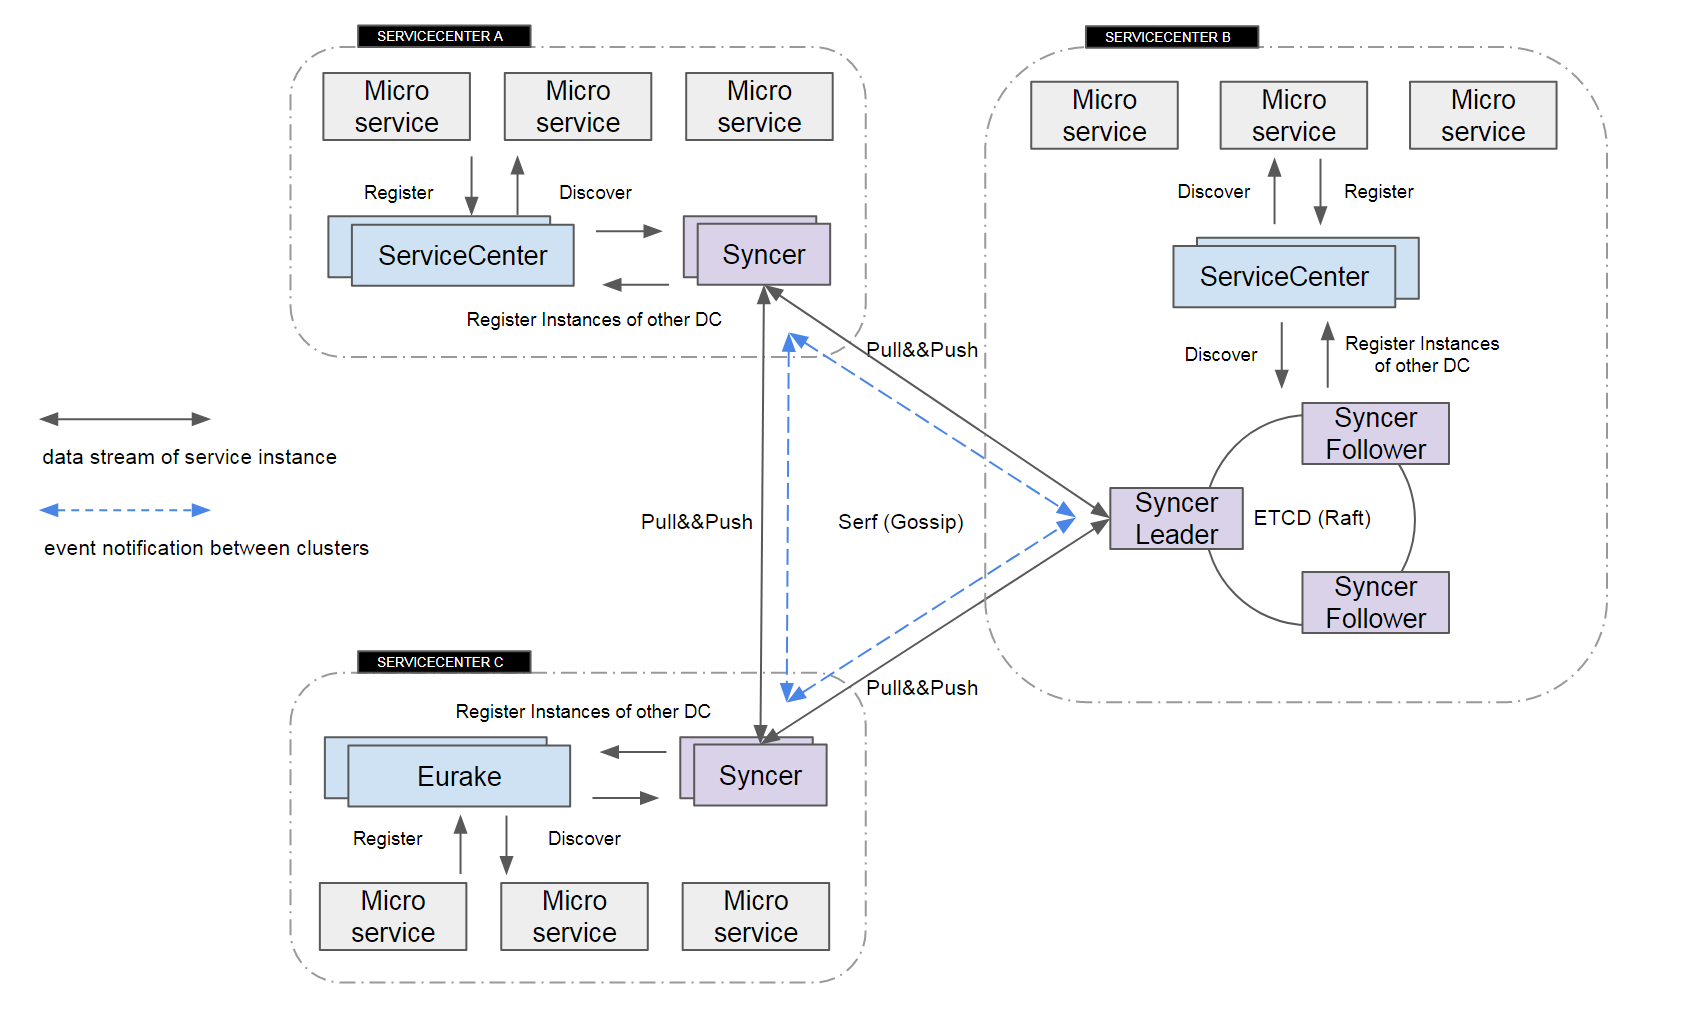
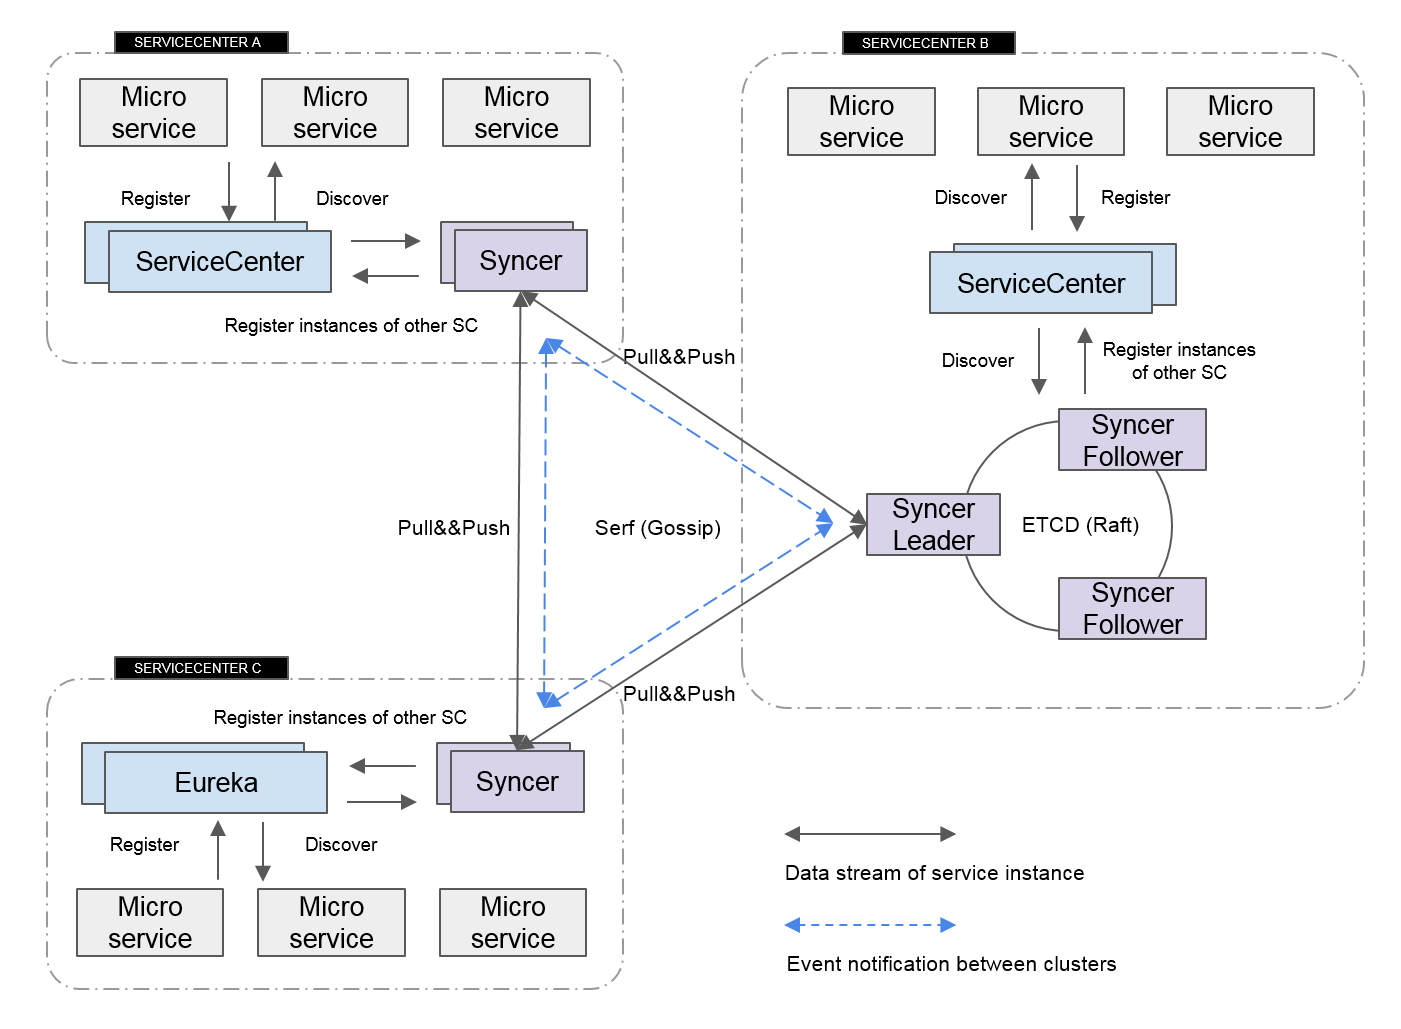
Update the Eureka spelling in the image

diff --git a/syncer/README.md b/syncer/README.md
@@ -15,7 +15,7 @@ Syncer is a multiple servicecenters synchronization tool designed for large micr
 
 ### 2. ServiceCenter Syncer Architecture
 Syncer's runtime architecture diagram is as follows,
-![image](./images/SyncerArchitecture.png?raw=true&v=1)  
+![image](./images/SyncerArchitecture.png?raw=true&v=2)  
 There are three service-centers, 
 
 - Within each service center, a service registry (ServiceCenter, Eurake, or other) cluster is deployed that manages all microservice instances of the service center to which it belongs, and the service centers are isolated from each other. At the same time, a Syner cluster is deployed in each service center, which is responsible for discovering instances from the registry and registering instance information from other service centers to its own service centers.
